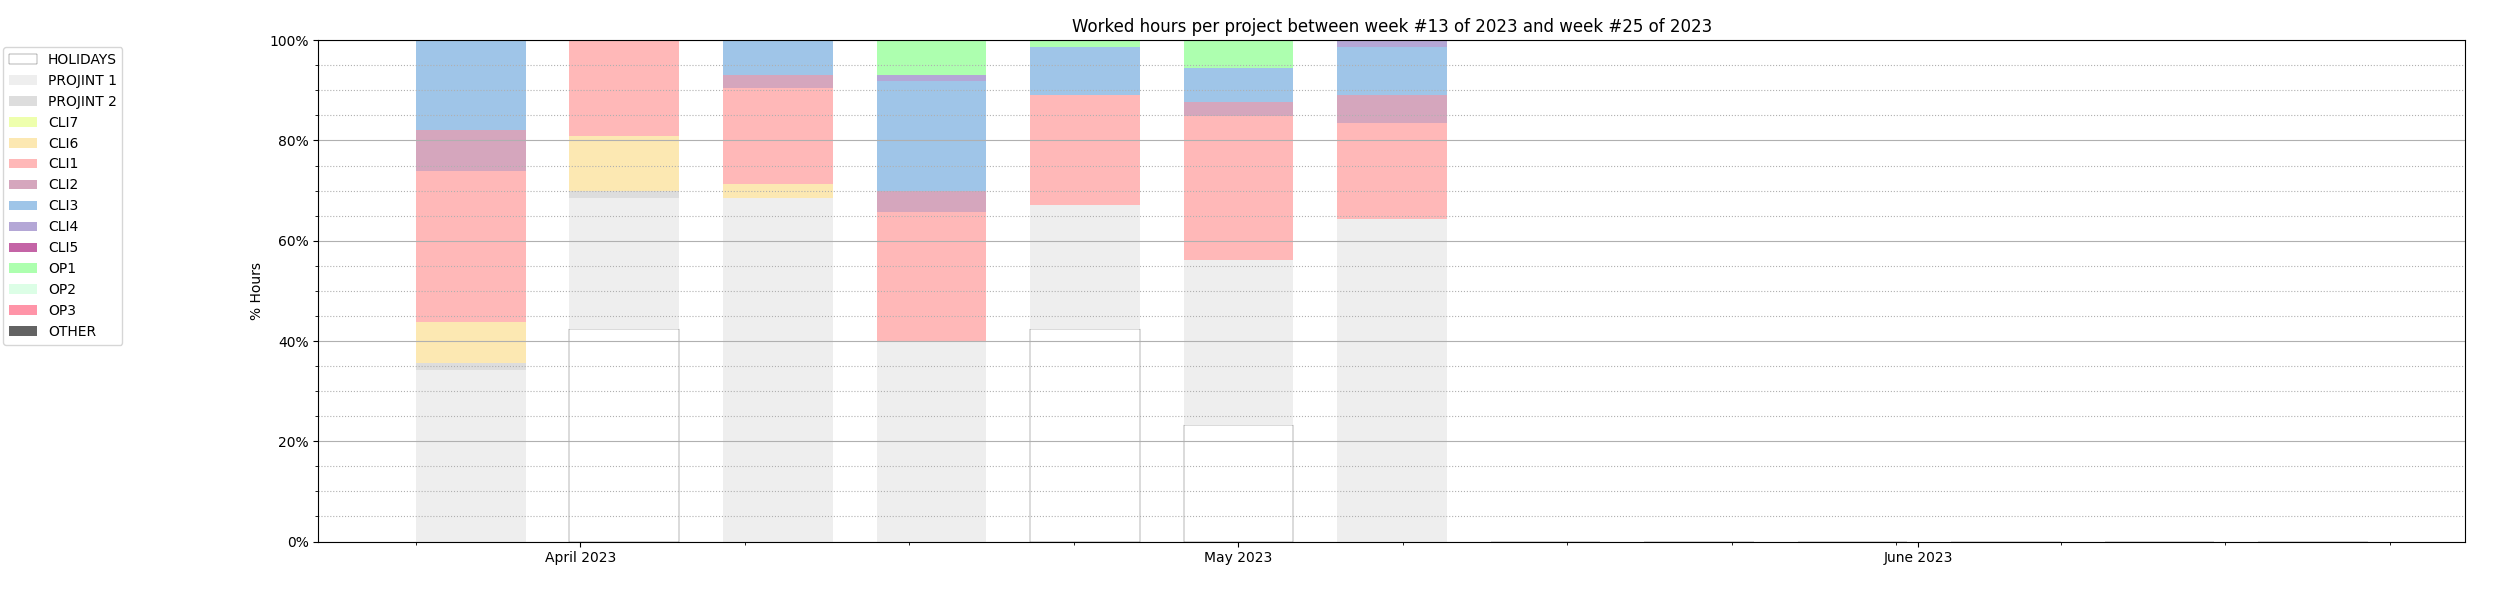
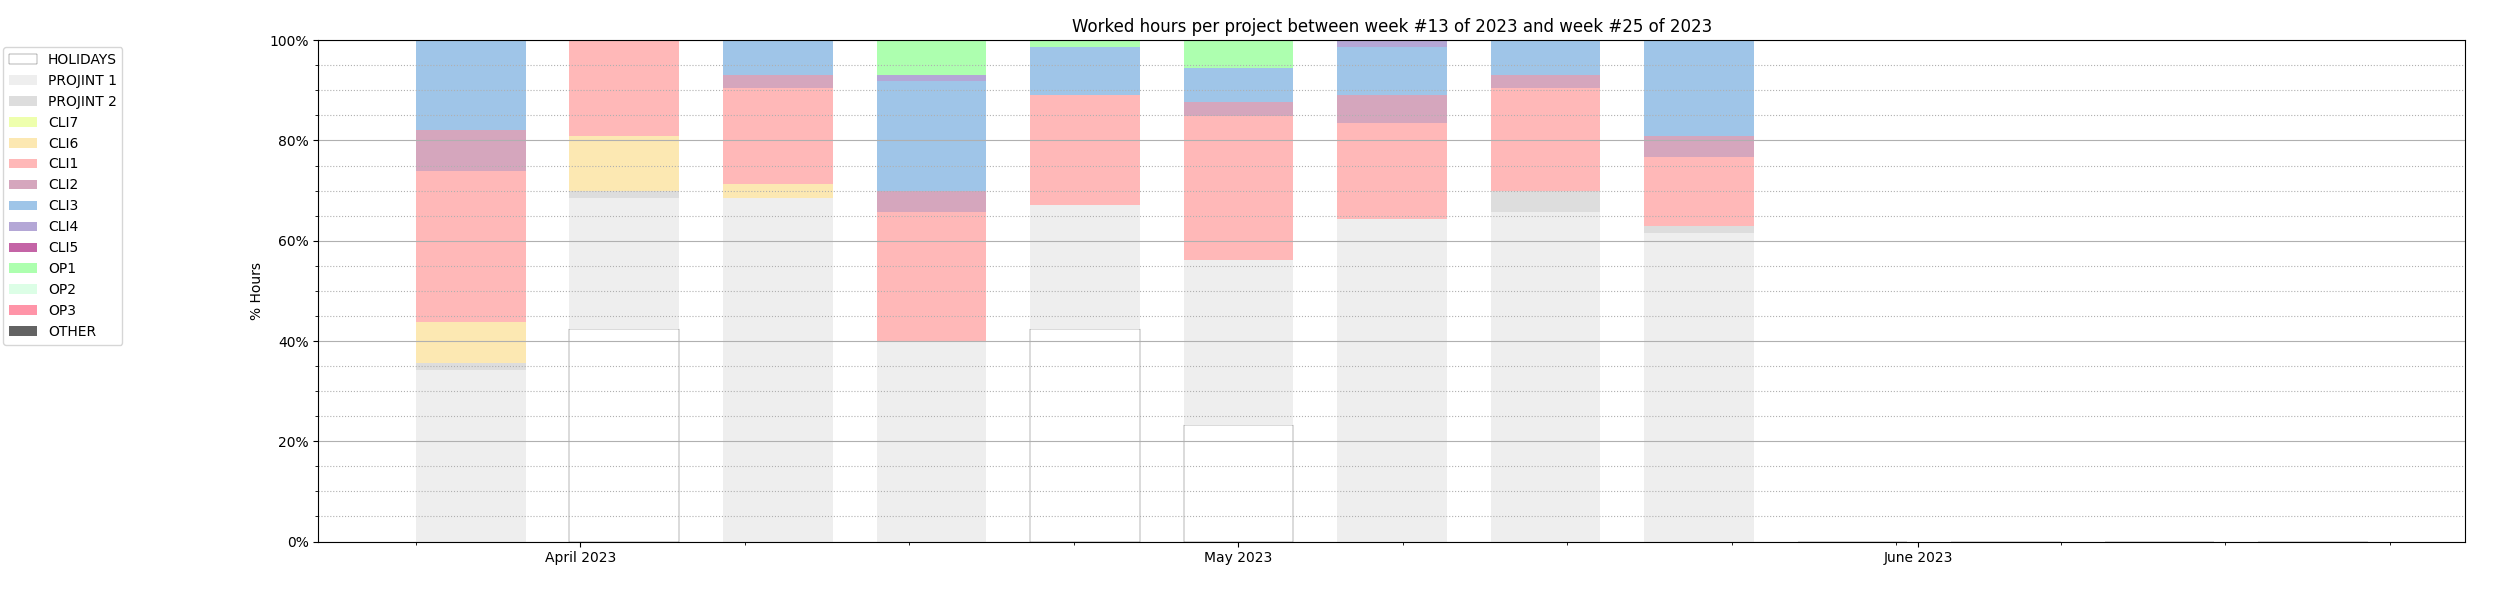
update plots/TAW - 2023*.png

Changed region(s): [[0.5928, 0.06, 0.7176, 0.39]]

diff --git a/README.md b/README.md
@@ -88,7 +88,7 @@ Generate graph? [y/N] y
 Graph saved in file: "TAW - Worked hours per project from 2023-01-02 to 2023-05-12.png"
 ```
 
-![](plots/TAW&#32;-&#32;2023&#32;-&#32;Worked&#32;hours&#32;per&#32;project&#32;from&#32;2023-01-02&#32;to&#32;2023-05-12.png)
+![](plots/TAW&#32;-&#32;2023&#32;-&#32;Worked&#32;hours&#32;per&#32;project&#32;from&#32;2023-01-02&#32;to&#32;2023-06-02.png)
 
 
 ```shell
